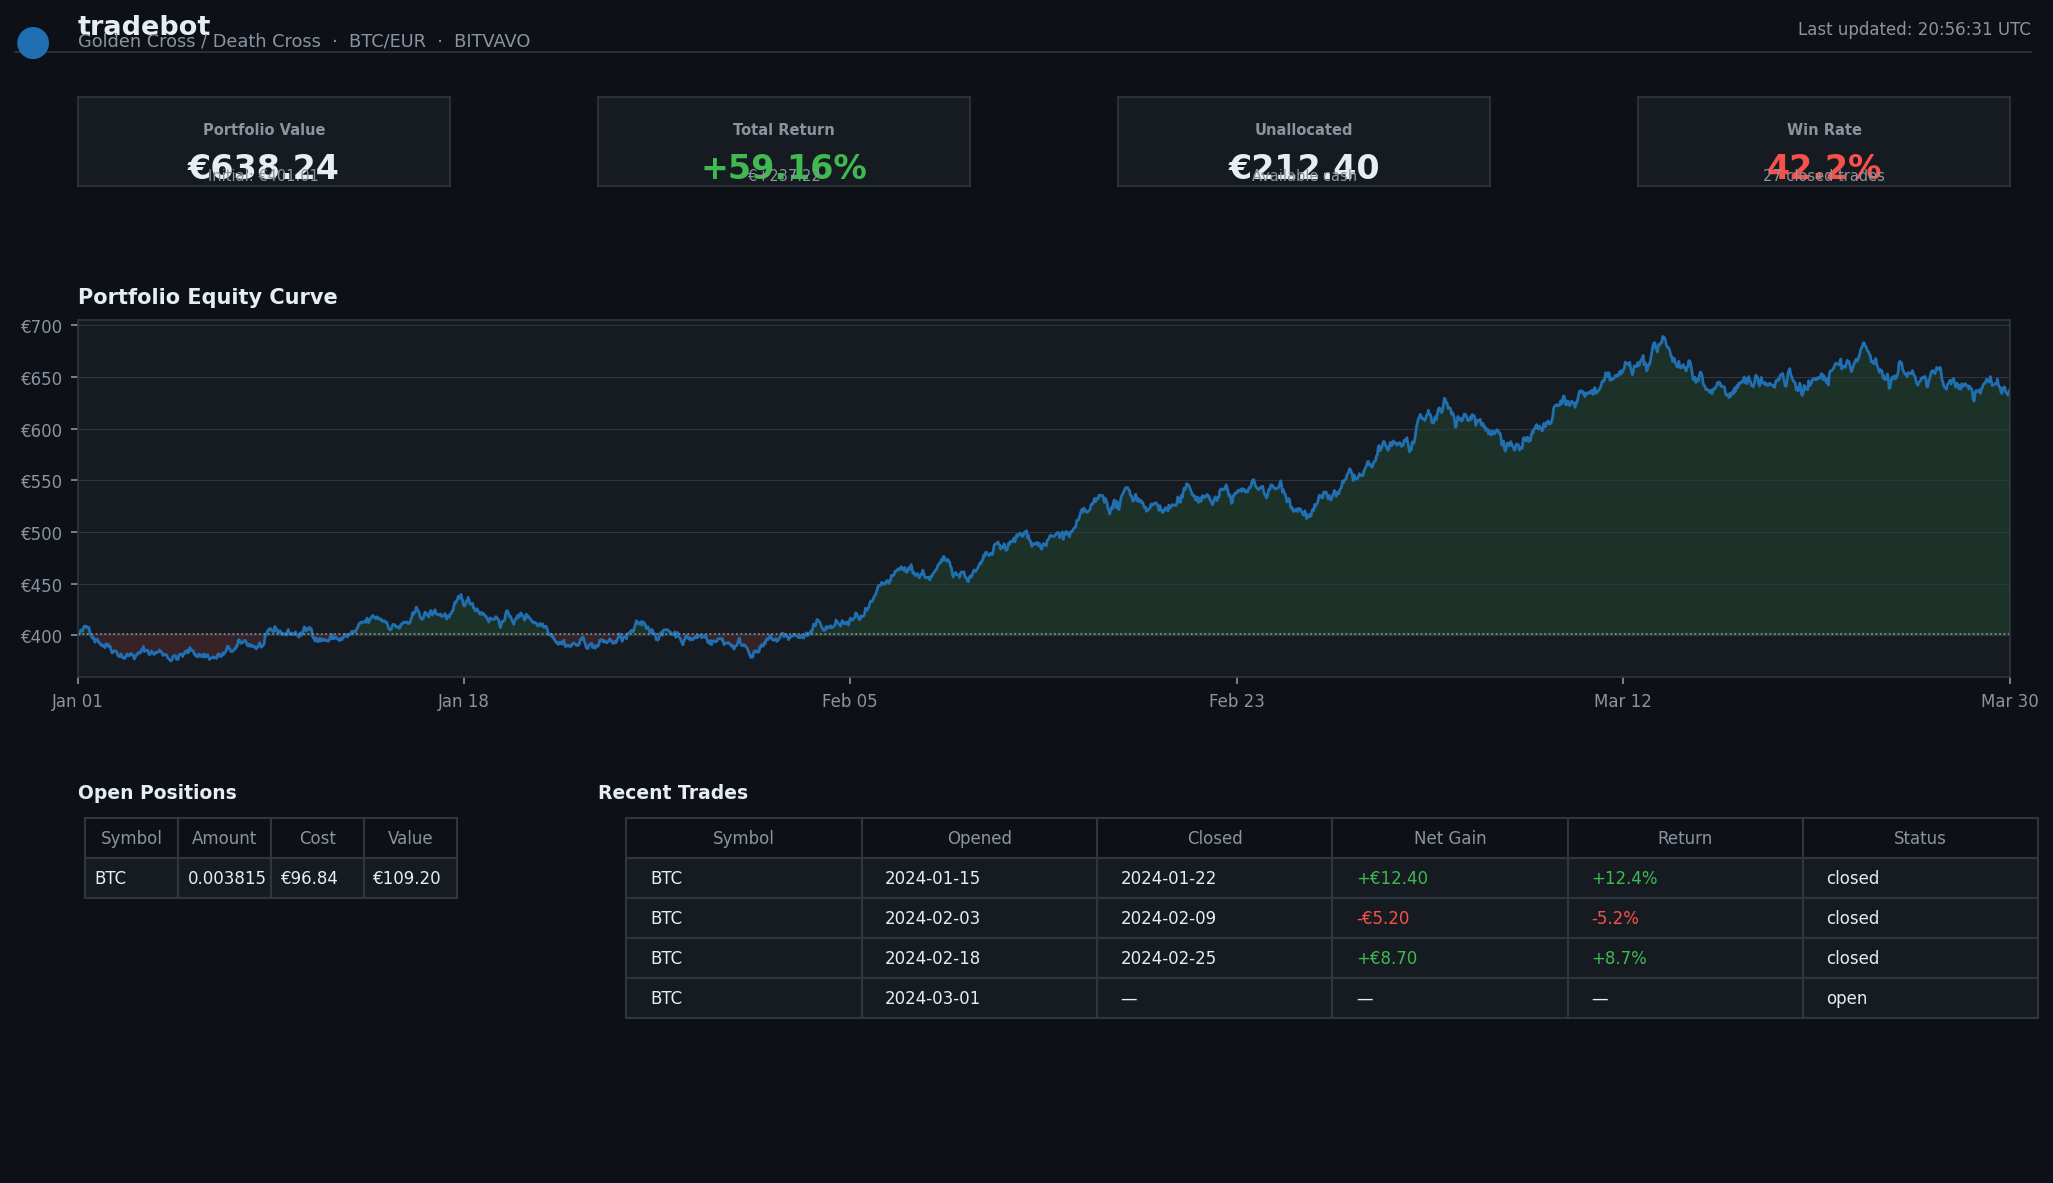
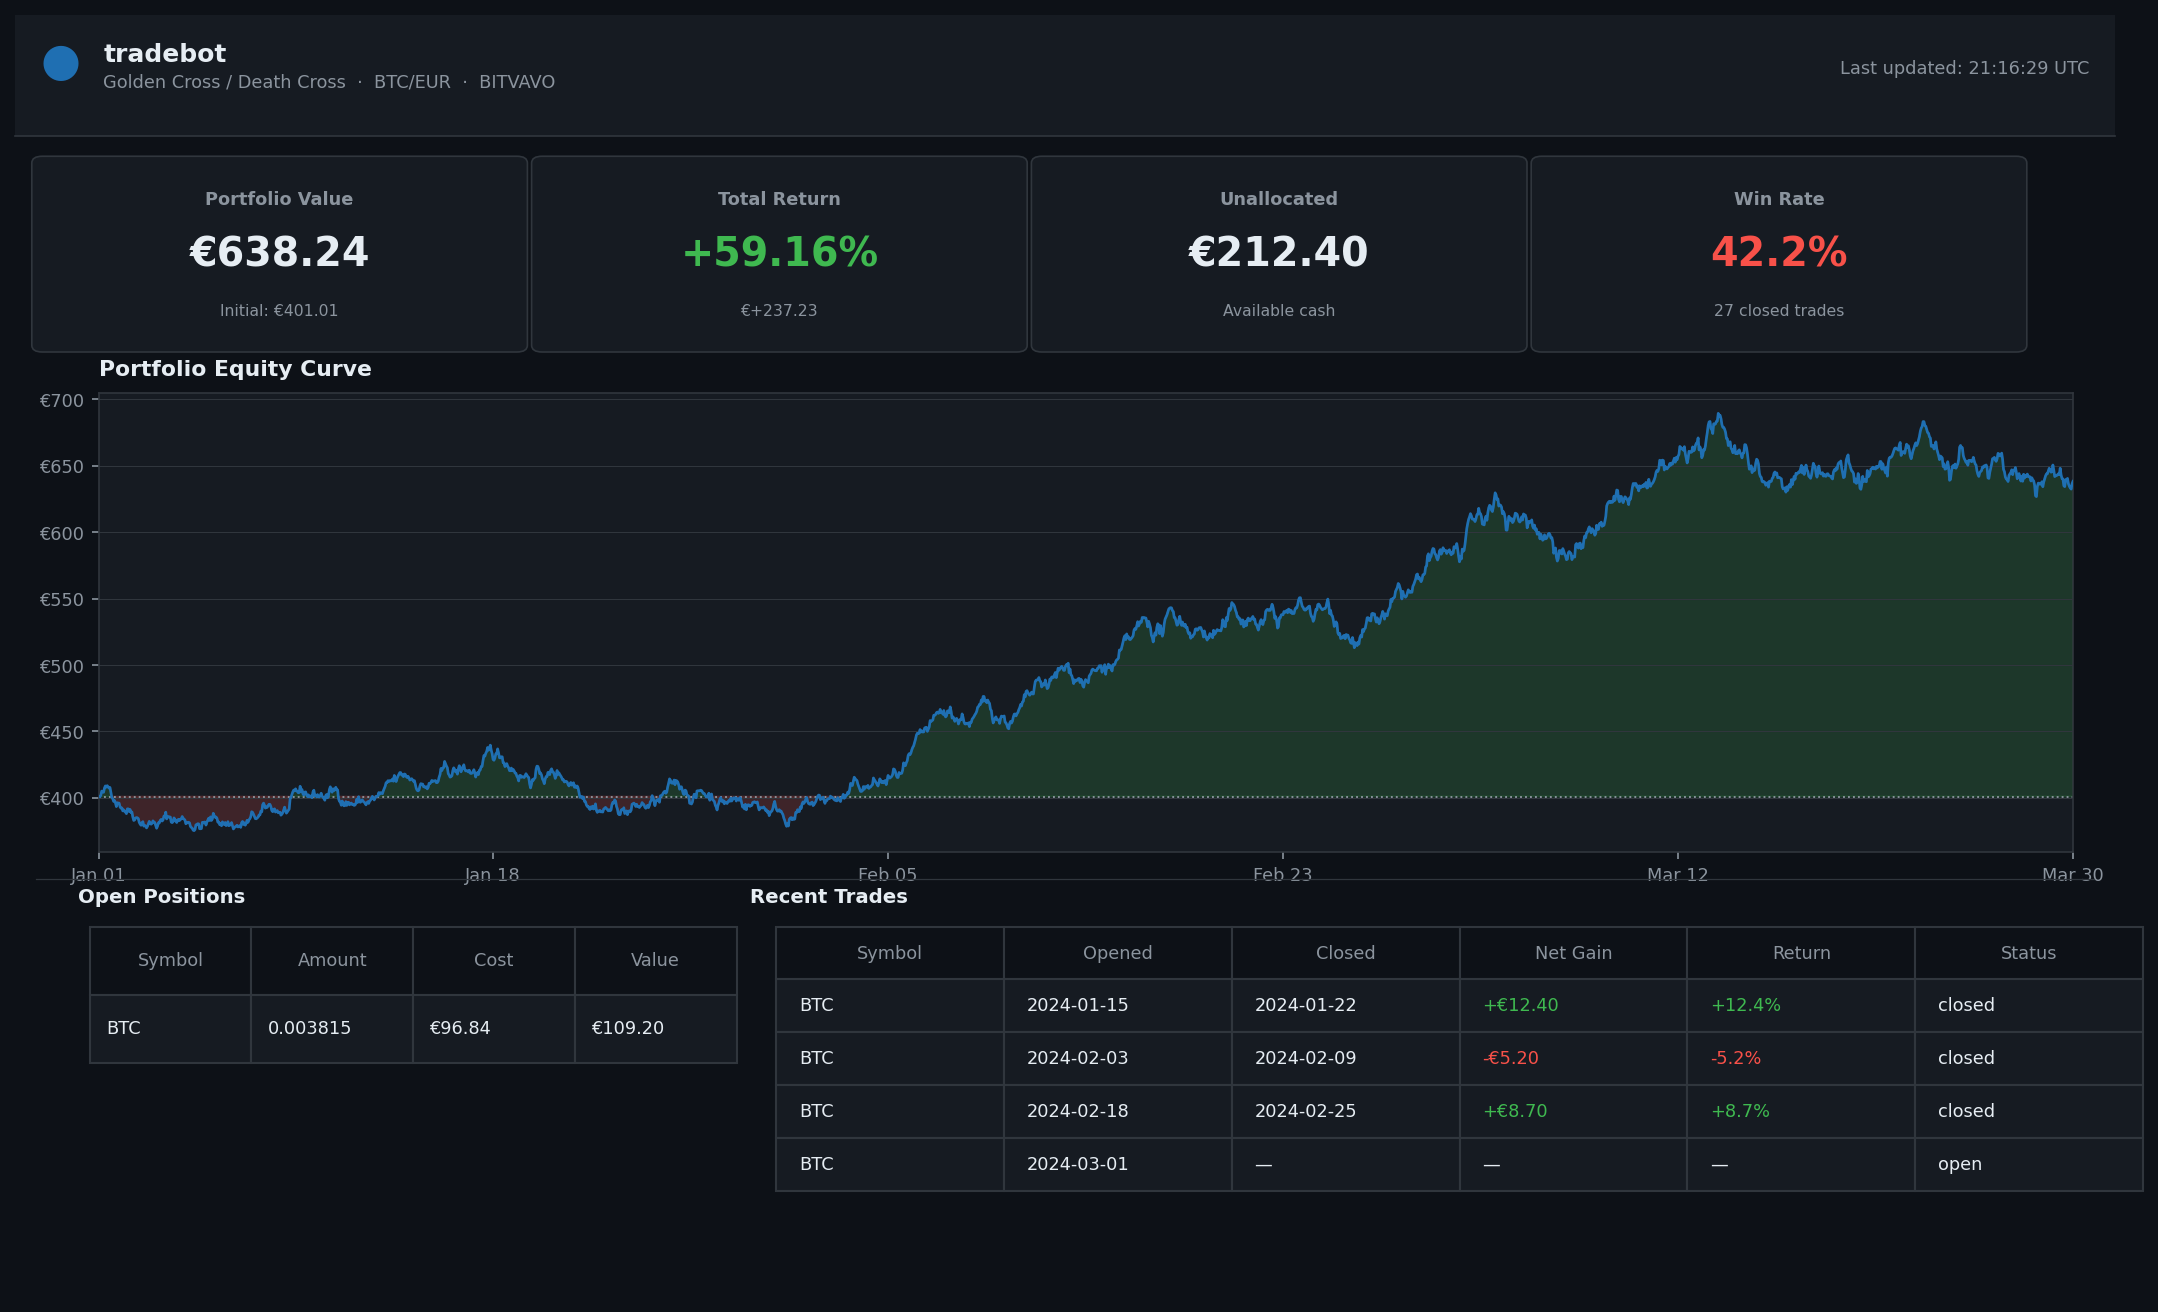
Fix dashboard KPI overlap; add clean workflow diagram to docs and README
Agent-Logs-Url: https://github.com/mr-robot77/tradebot/sessions/e5178cc5-4da1-433b-9708-2a8a9dea86e9

diff --git a/README.md b/README.md
@@ -35,11 +35,21 @@
 
 **tradebot** buys and sells Bitcoin automatically by detecting when short-term
 momentum (9-period SMA) crosses the long-term trend (50-period SMA) on
-2-hour candles.  The full workflow is:
+2-hour candles.
 
-```
-Download OHLCV data → Run backtest → Review charts → Deploy to cloud → Monitor live
-```
+### Architecture & Workflow
+
+![Project workflow diagram](docs/images/workflow.png)
+
+The full pipeline runs in five phases:
+
+| Phase | Description |
+|-------|-------------|
+| **① Data Sources** | Bitvavo exchange provides 2-hour OHLCV candles and real-time ticker via CCXT |
+| **② Core Application** | `app.py` wires the data providers together; `strategy.py` implements the SMA crossover logic |
+| **③ Development** | `backtest.py` replays history; `plot.py` saves a QF-Lib-style 6-panel report |
+| **④ Production** | `azure_function.py` deploys the bot as a serverless Azure Functions timer trigger |
+| **⑤ Monitoring** | `dashboard.py` serves a live Plotly Dash UI that reads the bot's SQLite state database |
 
 ---
 
